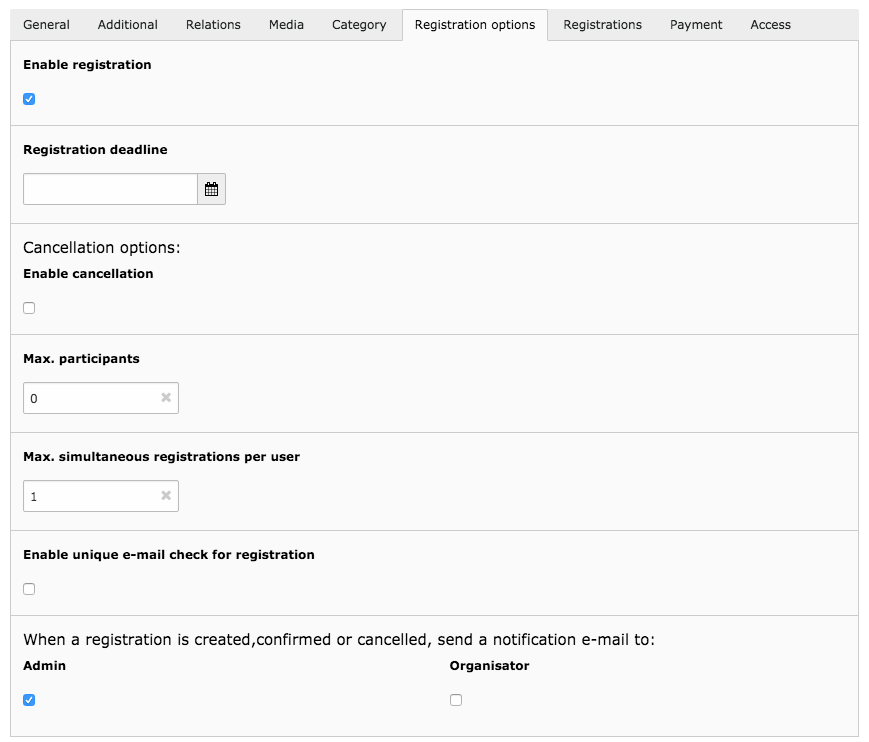
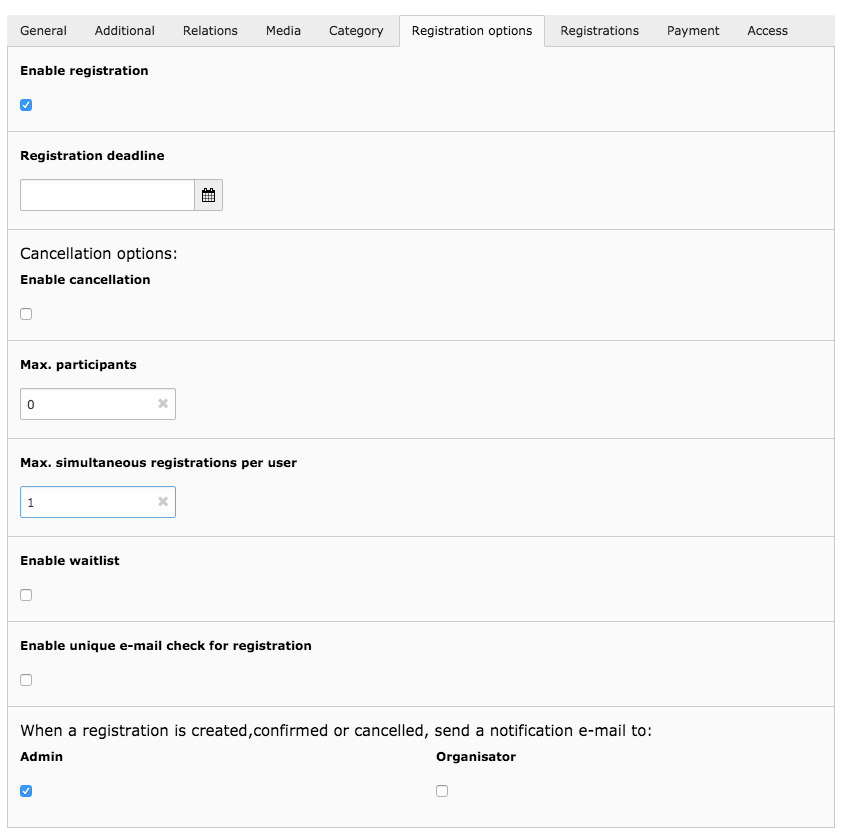
[DOC] Added documentation for waitlist #360

diff --git a/Documentation/ForAdministrators/Configuration/Plugins/EventPlugin/Index.rst b/Documentation/ForAdministrators/Configuration/Plugins/EventPlugin/Index.rst
@@ -375,6 +375,18 @@ Tab notification
          notification.registrationNew.userSubject
 
  - :Property:
+         Subject of e-mail sent to user when a new registration on the waitlist is created
+
+   :View:
+         Registration
+
+   :Description:
+         Subject of e-mail sent to user when a new registration on the waitlist is created
+
+   :Key:
+         notification.registrationWaitlistNew.userSubject
+
+ - :Property:
          Subject of e-mail sent to admin when a new registration is created
 
    :View:
@@ -385,6 +397,18 @@ Tab notification
 
    :Key:
          notification.registrationNew.adminSubject
+
+ - :Property:
+         Subject of e-mail sent to admin when a new registration on the waitlist is created
+
+   :View:
+         Registration
+
+   :Description:
+         Subject of e-mail sent to admin when a new registration on the waitlist is created
+
+   :Key:
+         notification.registrationWaitlistNew.adminSubject
 
  - :Property:
          Subject of e-mail sent to user when a registration has been confirmed
@@ -399,6 +423,18 @@ Tab notification
          notification.registrationConfirmed.userSubject
 
  - :Property:
+         Subject of e-mail sent to user when a registration on the waitlist has been confirmed
+
+   :View:
+         Registration
+
+   :Description:
+         Subject of e-mail sent to user when a registration on the waitlist has been confirmed
+
+   :Key:
+         notification.registrationWaitlistConfirmed.userSubject
+
+ - :Property:
          Subject of e-mail sent to admin when a registration has been confirmed
 
    :View:
@@ -409,6 +445,18 @@ Tab notification
 
    :Key:
          notification.registrationConfirmed.adminSubject
+
+ - :Property:
+         Subject of e-mail sent to admin when a registration on the waitlist has been confirmed
+
+   :View:
+         Registration
+
+   :Description:
+         Subject of e-mail sent to admin when a registration on the waitlist has been confirmed
+
+   :Key:
+         notification.registrationWaitlistConfirmed.adminSubject
 
  - :Property:
          Subject of e-mail sent to user when a registration has been cancelled

diff --git a/Documentation/ForAdministrators/Configuration/TsReference/Index.rst b/Documentation/ForAdministrators/Configuration/TsReference/Index.rst
@@ -291,6 +291,18 @@ plugin.tx_sfeventmgt
          Your event registration
 
  - :Property:
+         settings.notification.registrationWaitlistNew.userSubject
+
+   :Date type:
+         String
+
+   :Description:
+         User-Subject for new registration on the waitlist
+
+   :Default:
+         Your event registration on the waitlist
+
+ - :Property:
          settings.notification.registrationNew.adminSubject
 
    :Date type:
@@ -301,6 +313,18 @@ plugin.tx_sfeventmgt
 
    :Default:
          New unconfirmed event registration
+
+ - :Property:
+         settings.notification.registrationWaitlistNew.adminSubject
+
+   :Date type:
+         String
+
+   :Description:
+         Admin-Subject for new registration on the waitlist
+
+   :Default:
+         New unconfirmed event registration on the waitlist
 
  - :Property:
          settings.notification.registrationConfirmed.userSubject
@@ -315,6 +339,18 @@ plugin.tx_sfeventmgt
          Event registration successful
 
  - :Property:
+         settings.notification.registrationWaitlistConfirmed.userSubject
+
+   :Date type:
+         String
+
+   :Description:
+         User-Subject for confirmed registration on the waitlist
+
+   :Default:
+         Event registration on the waitlist successful
+
+ - :Property:
          settings.notification.registrationConfirmed.adminSubject
 
    :Date type:
@@ -325,6 +361,18 @@ plugin.tx_sfeventmgt
 
    :Default:
          Event registration confirmed
+
+ - :Property:
+         settings.notification.registrationWaitlistConfirmed.adminSubject
+
+   :Date type:
+         String
+
+   :Description:
+         Admin-Subject for confirmed registration on the waitlist
+
+   :Default:
+         Event registration on the waitlist confirmed
 
  - :Property:
          settings.notification.registrationCancelled.userSubject

diff --git a/Documentation/Faq/Index.rst b/Documentation/Faq/Index.rst
@@ -68,8 +68,8 @@ For each event, the attribute registrationPossible returns TRUE or FALSE, if reg
 the event is possible. TRUE is returned, when all conditions below are
 
 * Registration option is activated for the event
-* Max participants is not reached (if max. participants > 0)
-* Date set at registration deadline ist not reached
+* Max participants is not reached (if max. participants > 0) or max participants is not reached and waitlist is enabled
+* Date set at registration deadline is not reached
 * Startdate of event is not reached
 
 How can I disable double opt in for event registration?

diff --git a/Documentation/ForEditors/Events/Index.rst b/Documentation/ForEditors/Events/Index.rst
@@ -350,6 +350,12 @@ Contains all registrations for the event. Only visible, when registration is ena
    :Description:
          A list of participants registered to the event.
 
+ - :Field:
+         Registrations on the waitlist
+
+   :Description:
+         A list of participants registered to the waitlist of the event. This option is only visible, when the
+
 Payment
 ~~~~~~~
 

diff --git a/Documentation/Introduction/WhatDoesItDo/Index.rst b/Documentation/Introduction/WhatDoesItDo/Index.rst
@@ -16,6 +16,7 @@ Event management and registration is an extension for TYPO3 CMS to manage events
 
 * Easy usage for editors
 * Registration can be activated for each event individually
+* Optional registration waitlist
 * Double opt in (optional) for event registration
 * Configurable validity of double opt in links
 * Cancellation configurable for each event

diff --git a/README.md b/README.md
@@ -13,6 +13,7 @@ Event management and registration is an extension for TYPO3 CMS to manage events
 
 * Easy usage for editors
 * Registration can be activated for each event individually
+* Optional registration waitlist
 * Double opt in (optional) for event registration
 * Configurable validity of double opt in links
 * Cancellation configurable for each event
